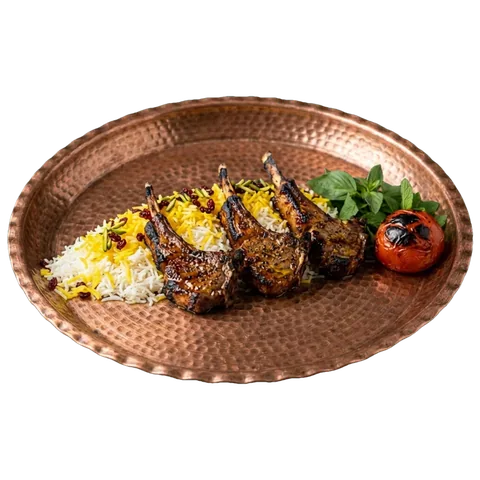
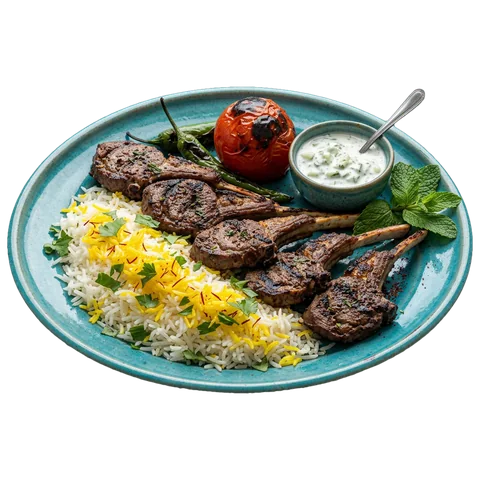
v28: ظرفهای سفالی فیروزهای — دور اول: هر ۹ کباب و قورمهسبزی حالا در بشقاب/کاسهٔ سفالی لعابفیروزهای، کامل و بدون بریدگی در کادر

diff --git a/menu.html b/menu.html
@@ -73,8 +73,8 @@
 <article class="dish reveal" data-cat="kabab">
       <div class="dish-media">
         <div class="window"><div class="glass">
-          <img src="assets/img/dish-soltani-480.webp"
-             srcset="assets/img/dish-soltani-480.webp 480w, assets/img/dish-soltani-880.webp 880w"
+          <img src="assets/img/dish-soltani-480.webp?v=29"
+             srcset="assets/img/dish-soltani-480.webp?v=29 480w, assets/img/dish-soltani-880.webp?v=29 880w"
              sizes="(max-width: 700px) 86vw, 340px"
              alt="چلوکباب سلطانی: یک سیخ برگ و یک سیخ کوبیده بر چلوی زعفرانی با گوجهی کبابی" loading="lazy">
         </div>
@@ -93,8 +93,8 @@
 <article class="dish reveal" data-cat="kabab">
       <div class="dish-media">
         <div class="window"><div class="glass">
-          <img src="assets/img/dish-kubideh-480.webp?v=27"
-               srcset="assets/img/dish-kubideh-480.webp?v=27 480w, assets/img/dish-kubideh-880.webp?v=27 880w"
+          <img src="assets/img/dish-kubideh-480.webp?v=29"
+               srcset="assets/img/dish-kubideh-480.webp?v=29 480w, assets/img/dish-kubideh-880.webp?v=29 880w"
                sizes="(max-width: 700px) 86vw, 340px"
                alt="چلوکباب کوبیده: دو سیخ کوبیدهی گوشت بر چلوی زعفرانی با گوجهی کبابی" loading="lazy">
         </div>
@@ -112,8 +112,8 @@
 <article class="dish reveal" data-cat="kabab">
       <div class="dish-media">
         <div class="window"><div class="glass">
-          <img src="assets/img/dish-barg-480.webp"
-               srcset="assets/img/dish-barg-480.webp 480w, assets/img/dish-barg-880.webp 880w"
+          <img src="assets/img/dish-barg-480.webp?v=29"
+               srcset="assets/img/dish-barg-480.webp?v=29 480w, assets/img/dish-barg-880.webp?v=29 880w"
                sizes="(max-width: 700px) 86vw, 340px"
                alt="چلوکباب برگ: کباب برگِ راستهی گوساله بر چلوی زعفرانی" loading="lazy">
         </div>
@@ -131,8 +131,8 @@
 <article class="dish reveal" data-cat="kabab">
       <div class="dish-media">
         <div class="window"><div class="glass">
-          <img src="assets/img/dish-bakhtiari-480.webp"
-               srcset="assets/img/dish-bakhtiari-480.webp 480w, assets/img/dish-bakhtiari-880.webp 880w"
+          <img src="assets/img/dish-bakhtiari-480.webp?v=29"
+               srcset="assets/img/dish-bakhtiari-480.webp?v=29 480w, assets/img/dish-bakhtiari-880.webp?v=29 880w"
                sizes="(max-width: 700px) 86vw, 340px"
                alt="چلوکباب بختیاری: کباب برگ و جوجه در کنار هم بر چلوی زعفرانی" loading="lazy">
         </div>
@@ -150,8 +150,8 @@
 <article class="dish reveal" data-cat="kabab">
       <div class="dish-media">
         <div class="window"><div class="glass">
-          <img src="assets/img/dish-shishlik-480.webp?v=27"
-               srcset="assets/img/dish-shishlik-480.webp?v=27 480w, assets/img/dish-shishlik-880.webp?v=27 880w"
+          <img src="assets/img/dish-shishlik-480.webp?v=29"
+               srcset="assets/img/dish-shishlik-480.webp?v=29 480w, assets/img/dish-shishlik-880.webp?v=29 880w"
                sizes="(max-width: 700px) 86vw, 340px"
                alt="شیشلیک: سیخهای دندهی بره زغالی بر چلوی زعفرانی" loading="lazy">
         </div>
@@ -169,8 +169,8 @@
 <article class="dish reveal" data-cat="kabab">
       <div class="dish-media">
         <div class="window"><div class="glass">
-          <img src="assets/img/dish-bonab-480.webp"
-               srcset="assets/img/dish-bonab-480.webp 480w, assets/img/dish-bonab-880.webp 880w"
+          <img src="assets/img/dish-bonab-480.webp?v=29"
+               srcset="assets/img/dish-bonab-480.webp?v=29 480w, assets/img/dish-bonab-880.webp?v=29 880w"
                sizes="(max-width: 700px) 86vw, 340px"
                alt="کباب بناب: کباب بزرگ چرخکردهی گوسفندی بر چلو" loading="lazy">
         </div>
@@ -188,8 +188,8 @@
 <article class="dish reveal" data-cat="kabab">
       <div class="dish-media">
         <div class="window"><div class="glass">
-          <img src="assets/img/dish-torsh-480.webp?v=27"
-               srcset="assets/img/dish-torsh-480.webp?v=27 480w, assets/img/dish-torsh-880.webp?v=27 880w"
+          <img src="assets/img/dish-torsh-480.webp?v=29"
+               srcset="assets/img/dish-torsh-480.webp?v=29 480w, assets/img/dish-torsh-880.webp?v=29 880w"
                sizes="(max-width: 700px) 86vw, 340px"
                alt="کباب ترش گیلانی: کباب با سس رب انار و گردو و سبزی" loading="lazy">
         </div>
@@ -207,8 +207,8 @@
 <article class="dish reveal" data-cat="kabab">
       <div class="dish-media">
         <div class="window"><div class="glass">
-          <img src="assets/img/dish-chenjeh-480.webp"
-               srcset="assets/img/dish-chenjeh-480.webp 480w, assets/img/dish-chenjeh-880.webp 880w"
+          <img src="assets/img/dish-chenjeh-480.webp?v=29"
+               srcset="assets/img/dish-chenjeh-480.webp?v=29 480w, assets/img/dish-chenjeh-880.webp?v=29 880w"
                sizes="(max-width: 700px) 86vw, 340px"
                alt="چنجه: تکههای فیلهی گوسالهی سیخشده بر چلو" loading="lazy">
         </div>
@@ -226,8 +226,8 @@
 <article class="dish reveal" data-cat="kabab">
       <div class="dish-media">
         <div class="window"><div class="glass">
-          <img src="assets/img/dish-joojeh-480.webp"
-               srcset="assets/img/dish-joojeh-480.webp 480w, assets/img/dish-joojeh-880.webp 880w"
+          <img src="assets/img/dish-joojeh-480.webp?v=29"
+               srcset="assets/img/dish-joojeh-480.webp?v=29 480w, assets/img/dish-joojeh-880.webp?v=29 880w"
                sizes="(max-width: 700px) 86vw, 340px"
                alt="جوجهکباب زعفرانی: سیخ مرغ زعفرانی با گوجهی کبابی" loading="lazy">
         </div>
@@ -255,8 +255,8 @@
 <article class="dish reveal" data-cat="khoresh">
       <div class="dish-media">
         <div class="window"><div class="glass">
-          <img src="assets/img/dish-ghormeh-480.webp?v=27"
-             srcset="assets/img/dish-ghormeh-480.webp?v=27 480w, assets/img/dish-ghormeh-880.webp?v=27 880w"
+          <img src="assets/img/dish-ghormeh-480.webp?v=29"
+             srcset="assets/img/dish-ghormeh-480.webp?v=29 480w, assets/img/dish-ghormeh-880.webp?v=29 880w"
              sizes="(max-width: 700px) 86vw, 340px"
              alt="قورمهسبزی با سبزی سرخشده، لوبیا قرمز و لیموعمانی، همراه چلو و سالاد شیرازی" loading="lazy">
         </div>

diff --git a/index.html b/index.html
@@ -124,15 +124,15 @@
 
     <div class="wrap menu-cats" id="menuCats" aria-label="دستههای منو">
     <a class="cat-tile reveal" href="menu.html#kabab">
-      <img src="assets/img/dish-soltani-480.webp"
-           srcset="assets/img/dish-soltani-480.webp 480w, assets/img/dish-soltani-880.webp 880w"
+      <img src="assets/img/dish-soltani-480.webp?v=29"
+           srcset="assets/img/dish-soltani-480.webp?v=29 480w, assets/img/dish-soltani-880.webp?v=29 880w"
            sizes="(max-width: 560px) 92vw, (max-width: 1020px) 46vw, 300px"
            alt="کبابها: کبابهای زغالی خانه بر چلوی زعفرانی" loading="lazy">
       <span class="cat-txt"><b>کبابها</b><i>۹ غذا · بر آتشِ زغال</i><em>دیدن همهی غذاها</em></span>
     </a>
     <a class="cat-tile reveal" href="menu.html#khoresh">
-      <img src="assets/img/dish-ghormeh-480.webp?v=27"
-           srcset="assets/img/dish-ghormeh-480.webp?v=27 480w, assets/img/dish-ghormeh-880.webp?v=27 880w"
+      <img src="assets/img/dish-ghormeh-480.webp?v=29"
+           srcset="assets/img/dish-ghormeh-480.webp?v=29 480w, assets/img/dish-ghormeh-880.webp?v=29 880w"
            sizes="(max-width: 560px) 92vw, (max-width: 1020px) 46vw, 300px"
            alt="خورشها: خورشهای جاافتادهی خانه" loading="lazy">
       <span class="cat-txt"><b>خورشها</b><i>۸ غذا · جاافتاده و خانگی</i><em>دیدن همهی غذاها</em></span>

diff --git a/_tools/build_turq.py b/_tools/build_turq.py
@@ -1,0 +1,18 @@
+# -*- coding: utf-8 -*-
+"""برش عکسهای سفالِ فیروزهای و رونویسی webp های منو."""
+import io, sys
+from pathlib import Path
+import numpy as np, cv2
+from PIL import Image
+
+HERE = Path(__file__).parent
+src = io.open(HERE / "build_images.py", encoding="utf-8").read()
+code = src[src.index("def _lin"): src.index("if __name__")]
+ROOT = HERE.parent
+RAW, OUT = ROOT / "_raw", ROOT / "assets" / "img"
+ns = dict(np=np, cv2=cv2, Image=Image, ROOT=ROOT, RAW=RAW, OUT=OUT, Path=Path)
+exec(code, ns)
+cutout = ns["cutout"]
+
+for k in sys.argv[1:]:
+    cutout(f"turq-{k}.png", f"dish-{k}")
